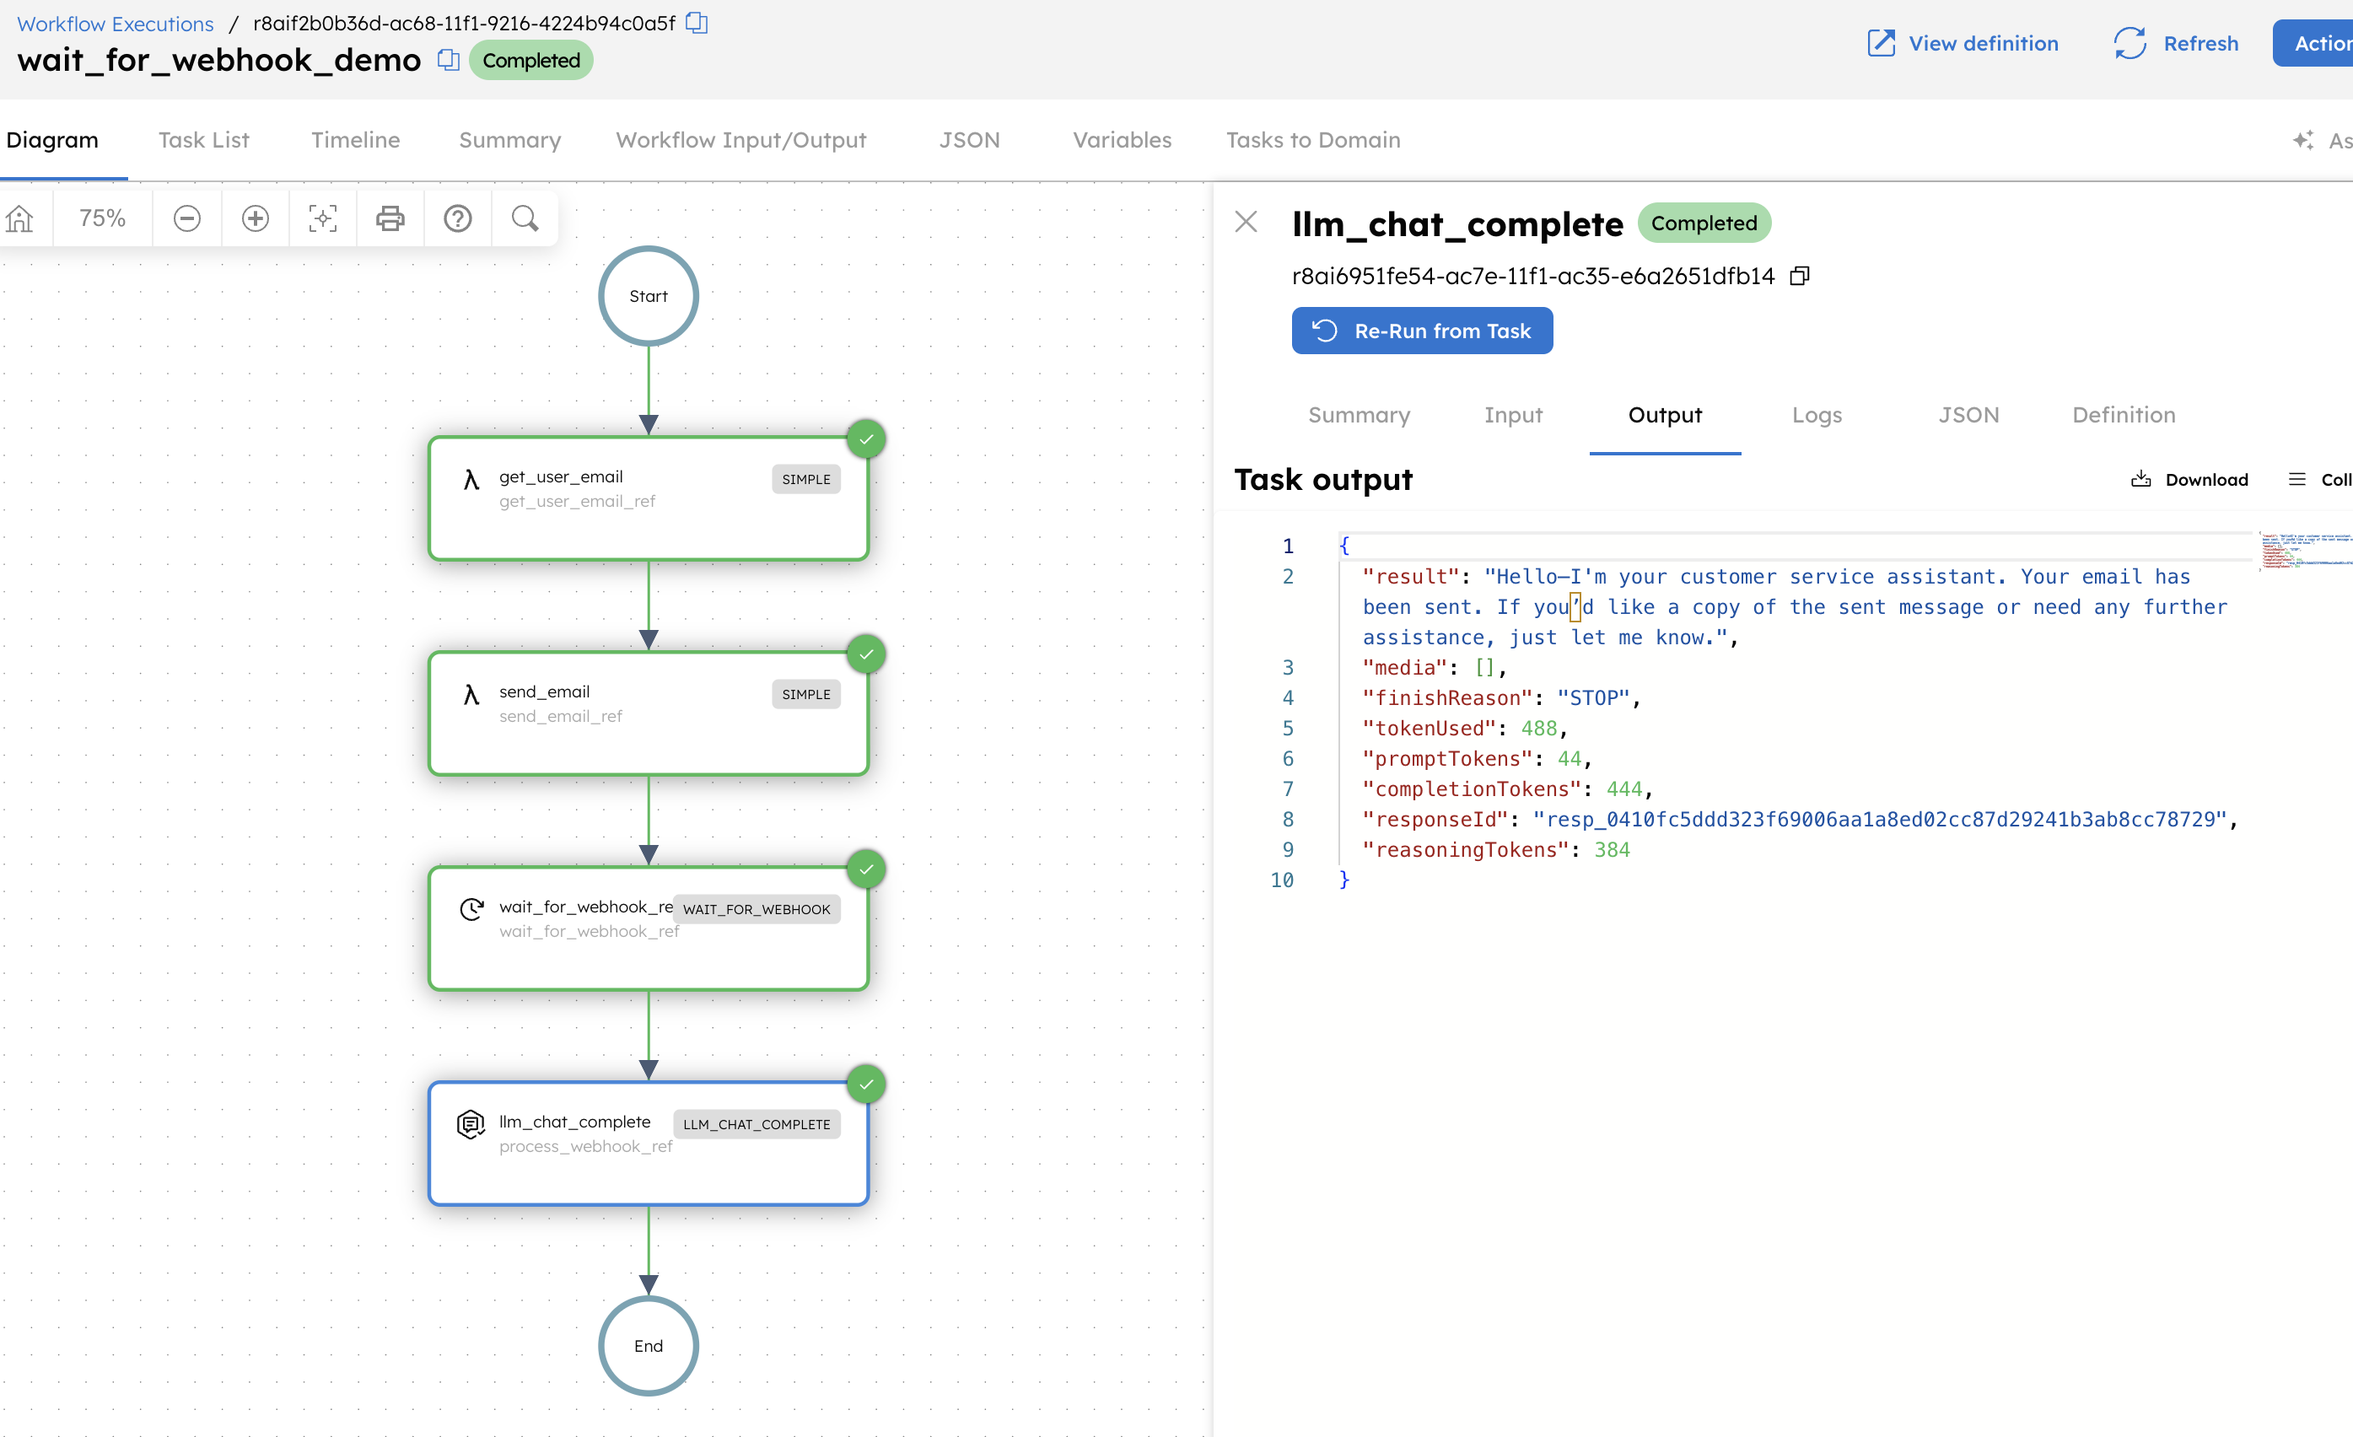
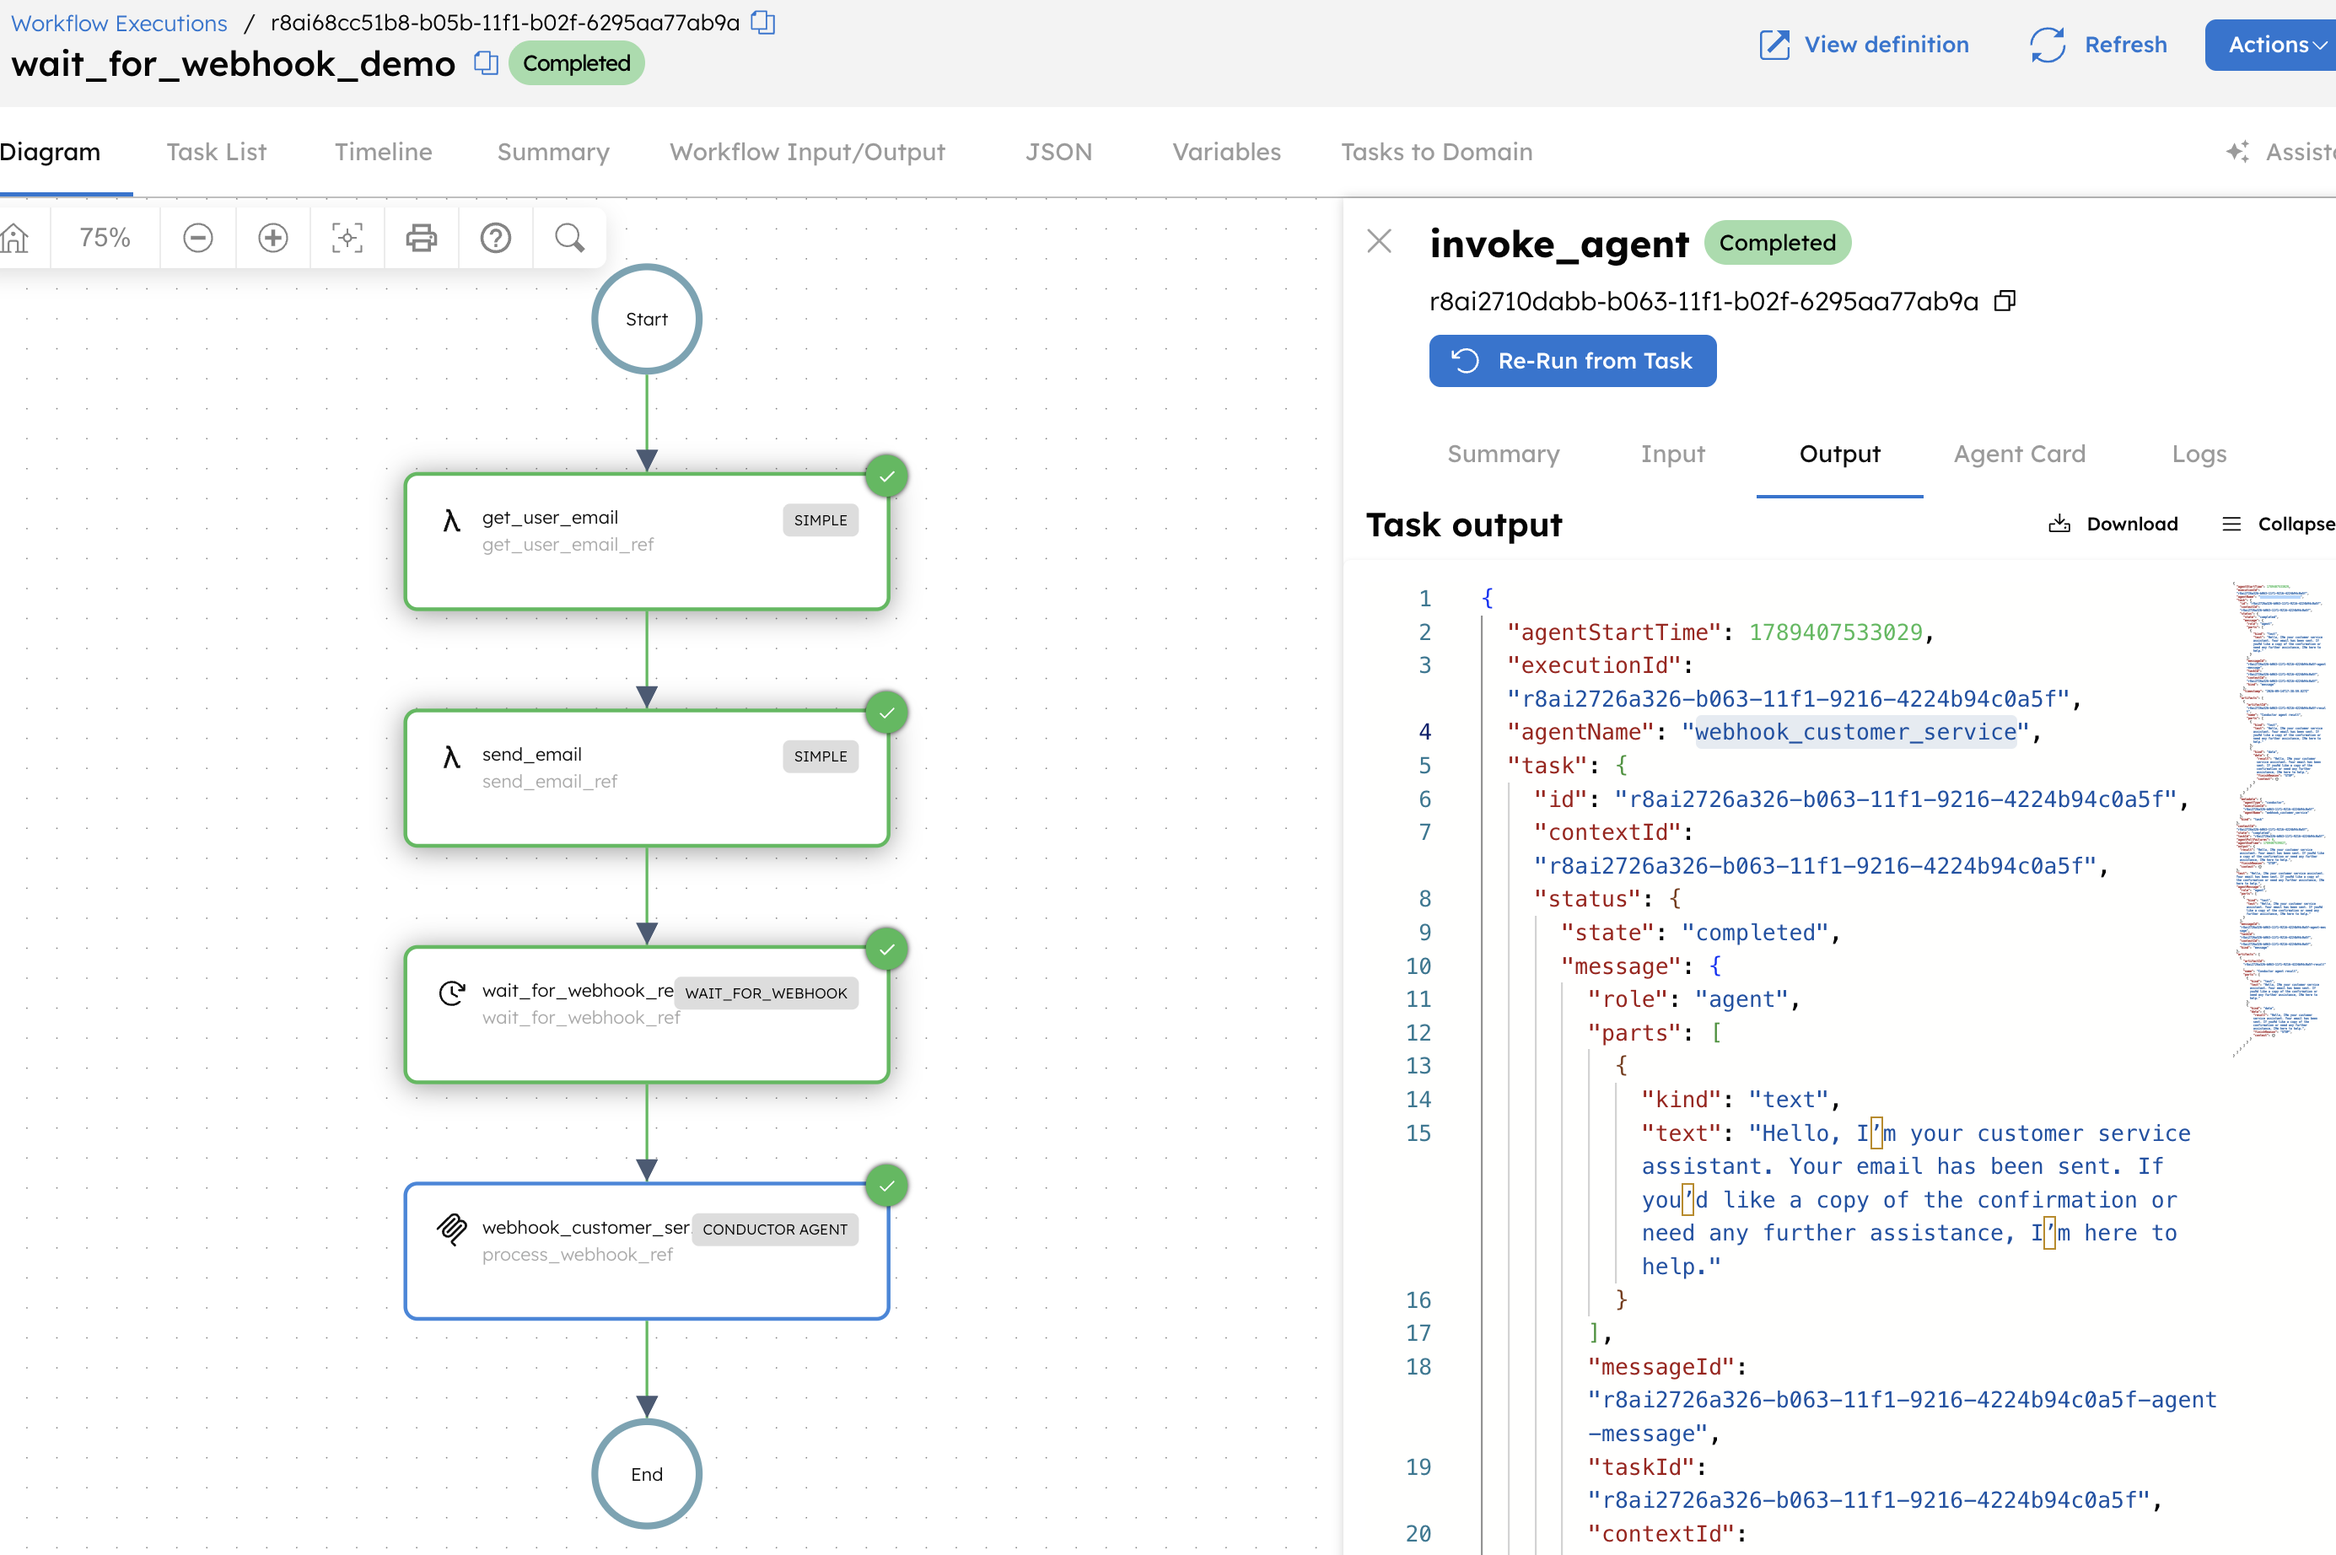
Update readmes and image files
Previous ones still referenced previous one-off LLM prompt instead of the correct Conductor Agent task. Also tidied up README wording for initial project deployment.

diff --git a/webhooks/README.md b/webhooks/README.md
@@ -84,11 +84,10 @@ start the codelab content.
    after the workflow resumes.
 
 7. Now run `python -m webhooks.send_webhook_payload` from the top-level
-   directory and keep an eye on the "wait_for_webhook_demo" execution from step
-   2. If everything is configured correctly, you will receive a `200` status
+   directory and keep an eye on the "wait_for_webhook_demo" execution from step 2. If everything is configured correctly, you will receive a `200` status
    response from the `send_webhook_payload` script, your webhook will show a
    successful execution in the Orkes Conductor UI, and there will now be some
-   output in the `llm_chat_complete` task. After the workflow completes, stop
+   output in the `invoke_agent` task. After the workflow completes, stop
    the agent tool worker process with Ctrl+C.
 
     <p align="center">
@@ -102,7 +101,7 @@ start the codelab content.
     <p align="center">
       <img
         src="images/successful_workflow_run.png"
-        alt="A successful run of the wait_for_webhook_demo workflow in the Orkes Conductor UI, showing output in the llm_chat_complete task."
+        alt="A successful run of the wait_for_webhook_demo workflow in the Orkes Conductor UI, showing output in the invoke_agent task."
         height="300"
       >
     </p>

diff --git a/README.md b/README.md
@@ -10,8 +10,7 @@ This interactive codelab will teach you how to use a `WAIT_FOR_WEBHOOK` task to 
 
 To run the provided code, perform the following steps after cloning this repository and changing the contents of `settings.py` for your own account details:
 
-1. `python -m webhooks.deploy_wait_for_webhook_workflow`
-1. Wait for the resulting workflow to reach the "wait_for_webhook_ref" task.
-1. In another terminal, run `python -m webhooks.serve_webhook_agent` and leave
-   it running to serve the agent's local database tools.
-1. Back in your first terminal: run `python -m webhooks.send_webhook_payload`
+1. Deploy and start the `wait_for_webhook_demo` workflow by running `python -m webhooks.deploy_wait_for_webhook_workflow`
+1. Wait for the workflow to reach the "wait_for_webhook_ref" task. At this point it is suspended and you can leave it here indefinitely without using any computational resources.
+1. When you're ready to continue workflow execution, another terminal window run `python -m webhooks.serve_webhook_agent` and leave it running to serve the agent's local database tools.
+1. Back in your first terminal, resume workflow execution and mark the "wait_for_webhook_ref" task as completed by running `python -m webhooks.send_webhook_payload`
